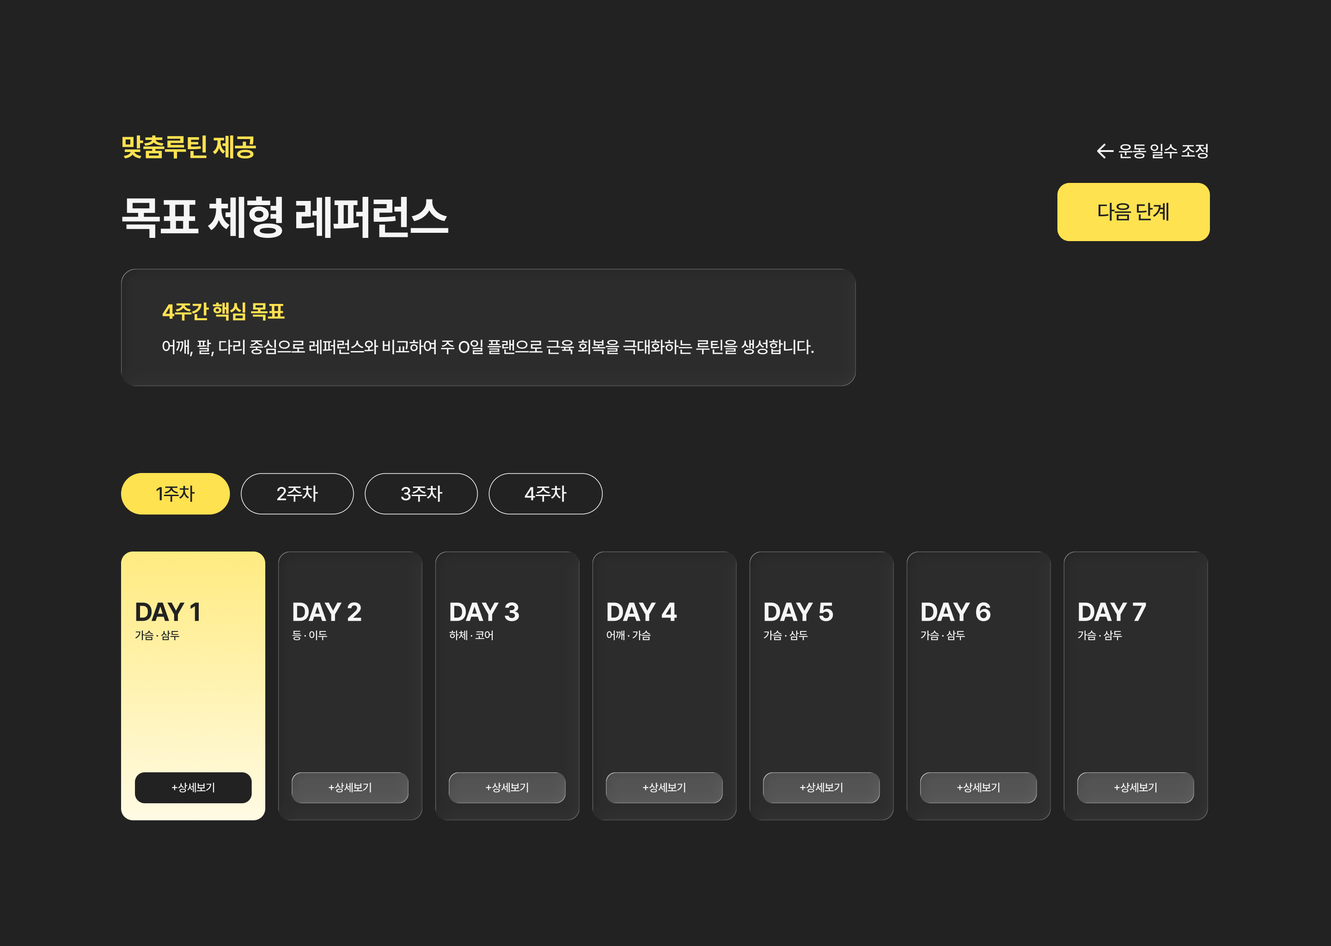
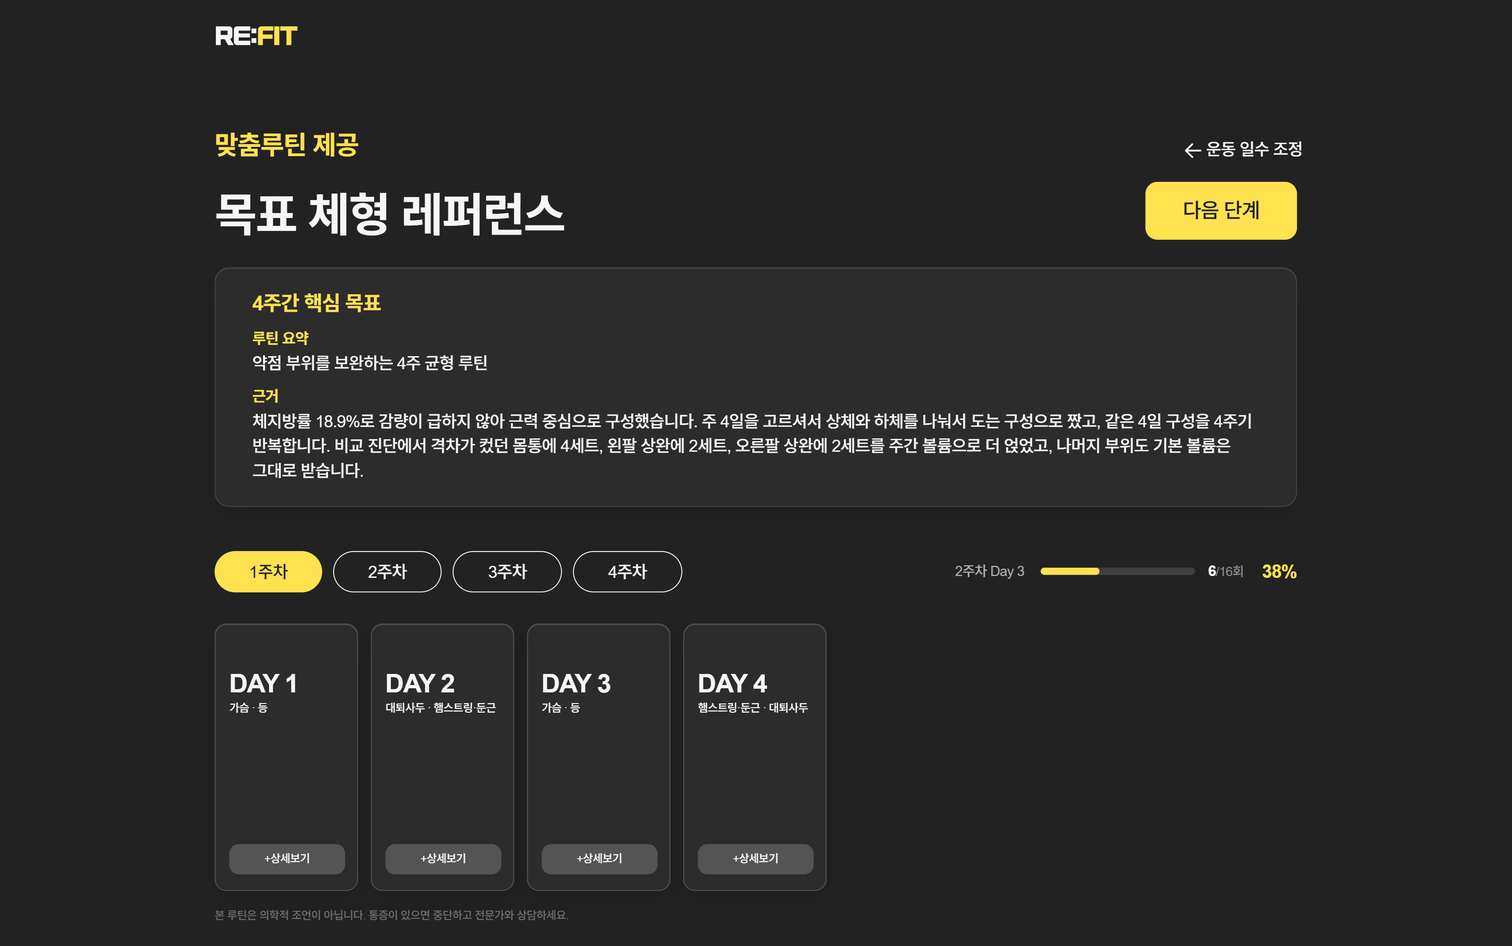
fix: 온보딩 확대 반응 · 흰 점 제거 · 부위 아이콘 · 촬영 가이드
온보딩에서 확대/축소가 먹지 않던 문제
  ⚠ 배율이 확대를 **정확히 상쇄**하고 있었다. clientWidth 는 CSS 픽셀이라 150% 로
     확대하면 값이 2/3 로 줄고, clientWidth/1440 로 배율을 잡으면 배율도 2/3 이 되어
     실제 크기가 그대로다. 그래서 아무리 확대해도 화면이 안 커졌다.
  viewport-scale.ts 가 확대 배수(devicePixelRatio 변화)를 다시 곱해 되돌린다.
  무대 폭도 1440×배율로 줘야 늘어난 폭이 잘리지 않고 가로 스크롤이 생긴다.
  검증: 섹션 폭 1280 → 1920 (×1.5).

  ⚠ 함정 — .onboarding 의 overflow:hidden 을 풀었더니 100% 에서도 가로 스크롤이
     생겼다. 히어로 캐릭터가 설계 폭(1440)보다 72px 크게 그려져 있는데
     .hero-section-stage 가 overflow:visible 이라 새어 나가고 있었고, 그동안
     .onboarding 이 그걸 막고 있었다. 무대에서 자르도록 바꿨다 — 무대 폭이
     1440×배율이라 100% 에서는 종전과 같은 모습이고, 확대할 때만 넓어진다.

러너 그림자 옆 흰 점
  routine-marker.svg — 8×1px 짜리 #D9D9D9 타원. Figma 내보내기 잔재로 보인다.
  요소·CSS·에셋 모두 제거.

노트북 화면 이미지
  옛 Figma 목업(DAY 7개, 게이지 없음)이라 지금 화면과 달랐다. 실제 맞춤 루틴
  화면을 2배로 캡처해 교체. 슬롯 비율(1.598)에 맞춰 좌우에 배경을 덧대 화면이
  잘리지 않게 했다. 237KB → 202KB.

진단 카드 부위 아이콘
  ⚠ 팔 아이콘 하나를 돌려 전 부위에 쓰고 있었다 (--leg 는 rotate(180deg)).
     그래서 «왼쪽 종아리»에 손가락이 달렸고 상완과 전완이 똑같아 보였다.
  BodyPartIcon 이 부위마다 그린다. 상완/전완·허벅지/종아리는 같은 팔다리의 다른
  마디라 모양으로는 못 가르므로, 팔(다리) 전체를 흐리게 깔고 해당 마디만 밝게
  칠해 **위치**로 구분한다. 좌우는 가로 뒤집기 — 두 벌로 관리하면 한쪽만 고치는
  실수가 난다.

촬영 가이드 문구
  «카메라와 적당한 거리를 두세요 — 너무 멀면 인식이 어려워요» 추가,
  «배경이 단순한 곳에서» → «…촬영해주세요» 로 문장 마무리.
  다섯 줄로 늘어도 카드는 843~974px 로 화면(1024px) 안에 들어간다.

diff --git a/src/App.css b/src/App.css
@@ -2,14 +2,22 @@
 
 /* 온보딩은 1440px 고정 캔버스를 화면 폭에 맞춰 축소·확대한다 (RevealSection scaleToViewport).
    min-width 를 두면 좁은 화면에서 가로 스크롤이 생기고 오른쪽이 잘린다. */
-.onboarding { overflow: hidden; }
+/* ⚠ overflow:hidden 을 두면 확대했을 때 늘어난 폭이 잘리고 가로 스크롤도 안 생긴다.
+   세로 방향은 원래 스크롤되는 페이지이므로 그대로 둔다. */
+.onboarding { overflow: visible; }
 .page-stage { position: relative; width: 100%; min-width: 1440px; overflow: hidden; background: #fff; }
 .page-stage--scaled { min-width: 0; }
 .hero-section-stage, .onboarding-function-stage, .closing-section-stage { background: #222; }
 .onboarding-wellness-stage { background: #e2e2e2; }
 .page-section { position: relative; width: 1440px; margin: 0 auto; overflow: hidden; }
 .page-stage--scaled .page-section { margin: 0; transform-origin: top left; }
-.hero-section-stage, .hero-section { overflow: visible; }
+/* ⚠ 무대(page-stage)는 잘라야 한다. 히어로 캐릭터가 설계 폭(1440)보다 72px 크게
+   그려져 있어서, 무대까지 visible 로 두면 그 72px 이 페이지 밖으로 새어 나가
+   **100% 배율에서도 가로 스크롤**이 생긴다. 종전에는 .onboarding 의 overflow:hidden
+   이 그걸 막았는데, 그 방식은 확대했을 때 늘어난 폭까지 잘라버려 오른쪽을 못 본다.
+   무대 폭 = 1440×배율 이므로 여기서 자르면 100% 에서는 종전과 완전히 같은 모습이고,
+   확대했을 때만 페이지가 넓어져 스크롤로 볼 수 있다. */
+.hero-section { overflow: visible; }
 .hero-section-stage { z-index: 1; }
 .hero-section { height: 1024px; }
 .motion { opacity: 0; transform: translateY(42px); transition: opacity 750ms cubic-bezier(.2, .8, .2, 1), transform 750ms cubic-bezier(.2, .8, .2, 1); }
@@ -26,7 +34,7 @@
 .onboarding-wellness { height: 1417px; background: #e2e2e2; color: #3b3b3b; }.onboarding-wellness__subtitle { position: absolute; top: 359px; left: 0; width: 100%; margin: 0; text-align: center; font: 500 28px/1.5 Pretendard, sans-serif; letter-spacing: -.84px; }.onboarding-wellness__title { position: absolute; top: 401px; left: 421px; width: 598px; margin: 0; text-align: center; font: 700 90px/1.5 esamanru, Pretendard, sans-serif; letter-spacing: -2.7px; }.onboarding-wellness__orbit { position: absolute; top: 141.5px; left: 564.5px; width: 390px; height: 179px; }.onboarding-wellness__computer { position: absolute; z-index: 2; top: 628px; left: 380px; width: 752px; height: 550px; }.onboarding-wellness__laptop { position: absolute; top: 81px; left: 39px; width: 674.36px; height: 388.887px; transform: rotate(-15deg); transform-origin: center; }.onboarding-wellness__screen { position: absolute; top: 107px; left: 116px; width: 516px; height: 323px; object-fit: cover; transform: rotate(-15deg); transform-origin: center; }.onboarding-wellness__platform, .onboarding-wellness__shadow { position: absolute; top: 1060px; left: 308px; width: 804.471px; height: 356.145px; }.onboarding-wellness__shadow { z-index: 1; }
 .onboarding-function { height: 1130px; background: #222; color: #f6f6f6; }.onboarding-function__subtitle { position: absolute; top: 323px; left: 0; width: 100%; margin: 0; text-align: center; font: 500 28px/1.5 Pretendard, sans-serif; letter-spacing: -.84px; }.onboarding-function__title { position: absolute; top: 365px; left: 0; width: 100%; margin: 0; text-align: center; font: 700 90px/1.5 esamanru, Pretendard, sans-serif; letter-spacing: -2.7px; }.onboarding-function__cards { position: absolute; top: 644px; left: 141px; display: flex; gap: 24px; }.onboarding-function__card { position: relative; box-sizing: border-box; width: 370px; height: 284px; overflow: hidden; border-radius: 30px; background: #3b3b3b; text-align: center; }.onboarding-function__number { position: absolute; top: 64px; left: 165px; width: 40px; height: 40px; }.onboarding-function__number img { position: absolute; inset: 0; width: 40px; height: 40px; }.onboarding-function__number b { position: relative; display: block; color: #f6f6f6; font: 500 17.966px/40px Pretendard, sans-serif; letter-spacing: -.539px; }.onboarding-function__card h2 { position: absolute; top: 130px; left: 0; width: 100%; margin: 0; font: 600 38px/1.5 Pretendard, sans-serif; letter-spacing: -1.14px; }.onboarding-function__card p { position: absolute; top: 193px; left: 12px; width: 346px; margin: 0; font: 500 18px/1.5 Pretendard, sans-serif; letter-spacing: -.54px; }
 .closing-section { height: 1058px; text-align: center; }.logo--small { position: absolute; top: 157px; left: 612px; font-size: 58.487px; letter-spacing: -1.755px; }.closing-section__copy { position: absolute; top: 248px; width: 100%; }.closing-section h1 { margin: 0; font: 700 50px/1.5 Pretendard, sans-serif; letter-spacing: -1.5px; }.closing-section h1 em { color: #ffe250; font-style: normal; }.closing-section__copy p { margin: 5px 0 0; font: 500 28px/1.5 Pretendard, sans-serif; letter-spacing: -0.84px; }
-.closing-section__illustration { position: absolute; top: 438px; left: 493px; width: 454px; height: 373px; }.closing-section__platform { position: absolute; top: 239px; left: 0; width: 454px; height: 133px; }.closing-section__figure { position: absolute; top: 0; left: 116px; width: 222px; height: 324px; object-fit: contain; }.closing-section__marker { position: absolute; top: 263px; left: 95px; width: 8px; height: 1px; }.closing-section__button { position: absolute; top: 830px; left: 413px; }.ai-button--wide { width: 616px; margin: 0; }
+.closing-section__illustration { position: absolute; top: 438px; left: 493px; width: 454px; height: 373px; }.closing-section__platform { position: absolute; top: 239px; left: 0; width: 454px; height: 133px; }.closing-section__figure { position: absolute; top: 0; left: 116px; width: 222px; height: 324px; object-fit: contain; }.closing-section__button { position: absolute; top: 830px; left: 413px; }.ai-button--wide { width: 616px; margin: 0; }
 @media (prefers-reduced-motion: reduce) { .motion, .motion--soft, .motion--from-right { opacity: 1; transform: none; transition: none; } }
 
 /* Analysis flow — Figma desktop frames (1440 × 1024). */
@@ -188,9 +196,6 @@ body .inbody-range-field.is-invalid .inbody-range-error-glyph { top: 17px !impor
 .comparison-analysis-diagnosis > div > span { position: relative; display: block; width: 127px; height: 127px; flex: none; }
 .comparison-analysis-diagnosis > div > span img:first-child { position: absolute; inset: 0; width: 127px; height: 127px; }
 .comparison-analysis-diagnosis > div > span img:last-child { position: absolute; top: 34px; left: 32px; width: 70px; height: 70px; }
-.comparison-analysis-diagnosis > div > span img.comparison-analysis-comment-icon--body { top: 35px; left: 28px; width: 72px; height: 58px; }
-.comparison-analysis-diagnosis > div > span img.comparison-analysis-comment-icon--leg { transform: rotate(180deg); }
-.comparison-analysis-diagnosis > div > span img.comparison-analysis-comment-icon--shoulder { transform: rotate(-18deg); }
 .comparison-analysis-diagnosis section { margin-left: 43px; }
 .comparison-analysis-diagnosis h3 { margin: 2px 0 10px; color: #ffe250; font: 700 28px/1.5 Pretendard, sans-serif; letter-spacing: -.84px; }
 .comparison-analysis-diagnosis section p { margin: 0; color: #f6f6f6; font: 500 22px/1.5 Pretendard, sans-serif; letter-spacing: -.66px; }
@@ -714,4 +719,12 @@ body .inbody-range-field.is-invalid .inbody-range-error-glyph { top: 17px !impor
 .custom-routine-page__progress strong { min-width: 44px; color: #ffe250; font: 700 20px/1.5 Pretendard, sans-serif; letter-spacing: -.6px; text-align: right; }
 @media (prefers-reduced-motion: no-preference) {
   .custom-routine-page__progress-gauge > span { transition: width 520ms cubic-bezier(.4, 0, .2, 1); }
+}
+
+/* ── 진단 카드 부위 아이콘 ──────────────────────────────────────────────────
+   종전에는 팔 그림 하나를 돌려 전 부위에 썼다 (--leg 는 rotate(180deg)) — 그래서
+   "왼쪽 종아리"에 손가락이 달렸고 상완과 전완이 똑같아 보였다.
+   이제 BodyPartIcon 이 부위마다 다르게 그린다. 원 안 같은 자리에 얹기만 하면 된다. */
+.comparison-analysis-diagnosis > div > span .comparison-analysis-comment-icon {
+  position: absolute; top: 30px; left: 30px; width: 72px; height: 72px; color: #f6f6f6;
 }

diff --git a/src/components/BodyPartIcon.tsx b/src/components/BodyPartIcon.tsx
@@ -1,0 +1,79 @@
+/**
+ * 진단 결과 카드의 부위 아이콘.
+ *
+ * ⚠ 종전에는 **팔 아이콘 하나를 돌려서** 전 부위에 썼다 (App.css 의
+ *    `--leg { transform: rotate(180deg) }`). 그래서 "왼쪽 종아리"에 손가락이
+ *    달려 있었고, 상완과 전완이 똑같이 보였다.
+ *
+ * 상완/전완, 허벅지/종아리는 **같은 팔다리의 다른 마디**다. 그래서 팔(다리)
+ * 전체를 흐리게 깔고 해당 마디만 밝게 칠한다 — 모양이 아니라 **위치**로
+ * 구분되므로 두 마디를 헷갈릴 수가 없다.
+ *
+ * ⚠ 좌우는 그림을 따로 그리지 않고 가로로 뒤집는다. 사람 몸은 좌우 대칭이라
+ *    두 벌로 관리하면 한쪽만 고치는 실수가 난다.
+ */
+
+type BodyPartIconVariant = 'torso' | 'upper-arm' | 'lower-arm' | 'upper-leg' | 'lower-leg'
+
+/** class_name → 아이콘 종류. 모르는 이름은 몸통으로 둔다(빈 자리보다 낫다). */
+function iconVariant(className: string | undefined): BodyPartIconVariant {
+  const value = (className ?? '').toLowerCase()
+  if (value.includes('upper_arm') || value.includes('shoulder')) return 'upper-arm'
+  if (value.includes('lower_arm') || value.includes('forearm') || value.includes('wrist')) return 'lower-arm'
+  if (value.includes('upper_leg') || value.includes('thigh')) return 'upper-leg'
+  if (value.includes('lower_leg') || value.includes('calf') || value.includes('shin')) return 'lower-leg'
+  return 'torso'
+}
+
+/** 화면에 보이는 방향 기준 오른쪽 부위인가 — 아이콘을 가로로 뒤집는다. */
+function isRightSide(className: string | undefined): boolean {
+  return (className ?? '').toLowerCase().startsWith('right_')
+}
+
+/** 강조하지 않는 마디의 진하기. 형태는 보이되 초점은 뺏지 않는 값.
+ *  ⚠ 너무 낮추면 팔다리 전체 실루엣이 사라져서 밝은 마디가 그냥 알약처럼 보인다. */
+const MUTED = 0.34
+
+/**
+ * 팔·다리는 **끊기지 않는 한 덩어리**로 그린다. 마디를 따로 떼어 그리면
+ * 사람 팔다리가 아니라 알약 두 개로 읽힌다. 손·발까지 이어 붙여야 어느 쪽이
+ * 팔이고 어느 쪽이 다리인지 한눈에 갈린다.
+ */
+function Limb({ variant }: { variant: Exclude<BodyPartIconVariant, 'torso'> }) {
+  const isArm = variant === 'upper-arm' || variant === 'lower-arm'
+  const upper = variant === 'upper-arm' || variant === 'upper-leg'
+  const hi = { opacity: 1 }
+  const lo = { opacity: MUTED }
+  return isArm
+    ? <g fill="none" stroke="currentColor" strokeLinecap="round" strokeLinejoin="round">
+        {/* 위팔 — 어깨에서 팔꿈치 */}
+        <path d="M25 14 L31 33" strokeWidth="14" {...(upper ? hi : lo)} />
+        {/* 아래팔 + 손 — 팔꿈치에서 손끝까지 이어 그린다 */}
+        <path d="M31 33 L36 49" strokeWidth="11" {...(upper ? lo : hi)} />
+        <path d="M36 50 L38 56" strokeWidth="12" {...(upper ? lo : hi)} />
+      </g>
+    : <g fill="none" stroke="currentColor" strokeLinecap="round" strokeLinejoin="round">
+        {/* 허벅지 — 골반에서 무릎. 팔보다 굵어야 다리로 읽힌다 */}
+        <path d="M26 13 L31 33" strokeWidth="18" {...(upper ? hi : lo)} />
+        {/* 종아리 → 발목 → 발등. ㄴ 자로 꺾어야 발로 보인다 */}
+        <path d="M31 33 L34 50 L34 55 L45 55" strokeWidth="12" {...(upper ? lo : hi)} />
+      </g>
+}
+
+/** partClassName: 백엔드 부위 코드(Left_Upper_Arm 등). 종류·좌우를 여기서 판단한다 —
+ *  호출부가 매번 두 값을 계산해 넘기면 한 곳만 빠뜨렸을 때 아이콘이 조용히 어긋난다. */
+type BodyPartIconProps = { partClassName: string | undefined; className?: string; label: string }
+
+export function BodyPartIcon({ partClassName, className = '', label }: BodyPartIconProps) {
+  const variant = iconVariant(partClassName)
+  return <svg className={className} viewBox="0 0 64 64" role="img" aria-label={label}
+    style={isRightSide(partClassName) ? { transform: 'scaleX(-1)' } : undefined}>
+    {variant === 'torso'
+      ? <g fill="currentColor">
+          {/* 어깨 → 허리 → 골반. ⚠ 목을 붙이면 보온병처럼 보인다 — 몸통만 그린다.
+              넓은 어깨와 잘록한 허리가 있어야 «몸통»으로 읽힌다. */}
+          <path d="M17 22c0-5 6-8 15-8s15 3 15 8l-4 13c-1 4-1 8 0 12l1 8c0 2-2 3-4 3H24c-2 0-4-1-4-3l1-8c1-4 1-8 0-12Z" />
+        </g>
+      : <Limb variant={variant} />}
+  </svg>
+}

diff --git a/src/App.tsx b/src/App.tsx
@@ -3,7 +3,6 @@ import heroBackground from './assets/onboarding-hero-background-figma.png'
 import heroPhone from './assets/onboarding-hero-phone.png'
 import onboardingScrollCue from './assets/onboarding-scroll-cue.svg'
 import routineFigure from './assets/routine-figure.png'
-import routineMarker from './assets/routine-marker.svg'
 import routinePlatform from './assets/routine-platform.svg'
 import wellnessScreen from './assets/onboarding-wellness-screen.png'
 import wellnessPlatform from './assets/onboarding-wellness-platform.svg'
@@ -34,6 +33,7 @@ import { applyCoachChanges, createRoutine, createWorkoutLog, getActiveRoutine, g
 import { detectPoseFromImage, type DetectedPose } from './lib/pose-detector'
 import { loadVideoLandmarker } from './lib/landmarkers'
 import { evaluate, MESSAGES, type PoseCriteria, type PoseEvaluation, type PoseLandmarks } from './lib/pose-score.js'
+import { viewportScale } from './lib/viewport-scale'
 
 // 부분 신체(상체/하체만) 레퍼런스를 허용하므로 "전신이 보이도록"은 부정확하다.
 // MESSAGES는 교체 가능하게 export되어 있고 evaluate()가 이 표를 그대로 읽는다.
@@ -139,7 +139,7 @@ function restoreView(): AppView {
 function RevealSection({ children, className, label, scaleToViewport = false, designHeight = 1024 }: SectionProps) {
   const sectionRef = useRef<HTMLElement>(null)
   const [isVisible, setIsVisible] = useState(false)
-  const [scale, setScale] = useState(() => document.documentElement.clientWidth / 1440)
+  const [scale, setScale] = useState(() => viewportScale(1440))
 
   useEffect(() => {
     const section = sectionRef.current
@@ -156,12 +156,16 @@ function RevealSection({ children, className, label, scaleToViewport = false, de
 
   useEffect(() => {
     if (!scaleToViewport) return
-    const updateScale = () => setScale(document.documentElement.clientWidth / 1440)
+    // ⚠ resize 는 창 크기뿐 아니라 **확대/축소에도 발생한다** — 둘 다 여기서 처리된다.
+    const updateScale = () => setScale(viewportScale(1440))
+    updateScale()
     window.addEventListener('resize', updateScale)
     return () => window.removeEventListener('resize', updateScale)
   }, [scaleToViewport])
 
-  const stageStyle = scaleToViewport ? { height: `${designHeight * scale}px` } : undefined
+  // ⚠ 폭도 배율만큼 준다. transform 은 자리 차지를 바꾸지 않아서, 폭을 안 주면
+  //    확대했을 때 늘어난 부분이 잘려나가고 가로 스크롤도 안 생긴다.
+  const stageStyle = scaleToViewport ? { width: `${1440 * scale}px`, height: `${designHeight * scale}px` } : undefined
   const canvasStyle = scaleToViewport ? { transform: `scale(${scale})` } : undefined
 
   return <section ref={sectionRef} aria-label={label} className={`page-stage ${className}-stage ${scaleToViewport ? 'page-stage--scaled' : ''}`} style={stageStyle}>
@@ -223,7 +227,7 @@ function OnboardingThree() {
 function OnboardingFour({ onStart }: { onStart: () => void }) {
   return <RevealSection className="closing-section" label="온보딩 4: REFIT 시작하기" scaleToViewport designHeight={1058}>
     <RefitLogo small /><div className="closing-section__copy motion"><h1>AI가 만드는 <em>맞춤 루틴</em></h1><p>오늘부터 REFIT과 함께, 내가 바라는 건강함을 차곡차곡</p></div>
-    <div className="closing-section__illustration motion motion--delay-1" aria-hidden="true"><img className="closing-section__platform" src={routinePlatform} alt="" /><img className="closing-section__figure" src={routineFigure} alt="" /><img className="closing-section__marker" src={routineMarker} alt="" /></div>
+    <div className="closing-section__illustration motion motion--delay-1" aria-hidden="true"><img className="closing-section__platform" src={routinePlatform} alt="" /><img className="closing-section__figure" src={routineFigure} alt="" /></div>
     <div className="closing-section__button motion motion--delay-2"><StartButton wide onStart={onStart} /></div>
   </RevealSection>
 }

diff --git a/src/screens/ComparisonAnalysisScreen.tsx b/src/screens/ComparisonAnalysisScreen.tsx
@@ -1,11 +1,10 @@
 import { useEffect, useRef, useState } from 'react'
 import comparisonCommentCircle from '../assets/comparison-analysis-comment-circle.svg'
-import comparisonCommentIcon from '../assets/comparison-analysis-comment-icon.svg'
-import comparisonCommentBodyIcon from '../assets/reference-person.svg'
 import comparisonScoreTrack from '../assets/comparison-analysis-score-track.svg'
 import type { AnalysisPart, AnalysisResult, SegmentationInfo, SessionSegmentation } from '../lib/api'
 import { PreviousButton } from '../components/PreviousButton'
 import { RefitHomeLogo } from '../components/RefitHomeLogo'
+import { BodyPartIcon } from '../components/BodyPartIcon'
 
 const GAP_LABELS: Record<string, string> = {
   NONE: '차이 거의 없음',
@@ -16,14 +15,6 @@ const GAP_LABELS: Record<string, string> = {
 
 const SCORE_RING_RADIUS = (300 - 24.83) / 2
 const SCORE_RING_CIRCUMFERENCE = 2 * Math.PI * SCORE_RING_RADIUS
-
-function commentIconVariant(className: string | undefined): 'body' | 'arm' | 'leg' | 'shoulder' {
-  const value = (className ?? '').toLowerCase()
-  if (value.includes('leg') || value.includes('knee') || value.includes('calf') || value.includes('thigh')) return 'leg'
-  if (value.includes('shoulder')) return 'shoulder'
-  if (value.includes('arm') || value.includes('elbow') || value.includes('wrist')) return 'arm'
-  return 'body'
-}
 
 /**
  * 사진 + 선택 부위 세그멘테이션 색칠을 **캔버스 한 장에 원본 해상도로 합성**한다.
@@ -117,8 +108,6 @@ export function ComparisonAnalysisScreen({ analysis, segmentation, onCreateRouti
   const parts = analysis?.parts ?? []
   const [selectedClass, setSelectedClass] = useState<string | null>(null)
   const selected = parts.find(part => part.class_name === selectedClass) ?? parts[0] ?? null
-  const commentVariant = commentIconVariant(selected?.class_name)
-  const commentIcon = commentVariant === 'body' ? comparisonCommentBodyIcon : comparisonCommentIcon
 
   const overall = analysis?.overall ?? null
   const score = overall?.similarity_score ?? null
@@ -208,7 +197,7 @@ export function ComparisonAnalysisScreen({ analysis, segmentation, onCreateRouti
           {selected?.confidence === 'LOW' && <span className="comparison-analysis-badge comparison-analysis-badge--dim">신뢰도 낮음</span>}
         </h2>
         <div className={selected?.confidence === 'LOW' ? 'is-low-confidence' : ''}>
-          <span><img src={comparisonCommentCircle} alt="" /><img className={`comparison-analysis-comment-icon--${commentVariant}`} src={commentIcon} alt={`${selected?.name_ko ?? '선택 부위'} 아이콘`} /></span>
+          <span><img src={comparisonCommentCircle} alt="" /><BodyPartIcon className="comparison-analysis-comment-icon" partClassName={selected?.class_name} label={`${selected?.name_ko ?? '선택 부위'} 아이콘`} /></span>
           <section>
             <h3>AI 코멘트</h3>
             {selected?.gap_level === null && selected?.blocked_reason

diff --git a/src/lib/viewport-scale.ts b/src/lib/viewport-scale.ts
@@ -1,0 +1,24 @@
+/**
+ * 1440px 설계 화면을 지금 창 너비에 맞추는 배율.
+ *
+ * ⚠ **브라우저 확대/축소를 상쇄하면 안 된다.** clientWidth 는 CSS 픽셀이라 150% 로
+ *    확대하면 값이 2/3 로 줄어든다. 그 값만으로 배율을 잡으면 배율도 같이 2/3 이 되어
+ *    실제 크기가 정확히 상쇄되고, 확대해도 화면이 **그대로**다. 종전 동작이 그랬다.
+ *
+ *    그래서 확대 배수를 다시 곱해 되돌린다. 확대하면 설계 크기가 CSS 픽셀로는 그대로,
+ *    화면에서는 그만큼 커진다 — 브라우저 확대의 원래 동작이다.
+ *
+ * ⚠ 기준 배율은 **첫 로드 시점**의 devicePixelRatio 다. 레티나(2배)처럼 화면 자체의
+ *    배율을 확대로 착각하지 않으려면 절대값이 아니라 변화량을 봐야 한다.
+ *    이미 확대한 채로 열면 그 상태가 기준이 된다 — 그 뒤의 확대·축소는 정상 동작한다.
+ */
+const BASE_PIXEL_RATIO = typeof window === 'undefined' ? 1 : window.devicePixelRatio || 1
+
+/** 첫 로드 대비 확대 배수. 100% 면 1, 150% 로 확대하면 1.5. */
+export function browserZoom(): number {
+  return (window.devicePixelRatio || 1) / BASE_PIXEL_RATIO
+}
+
+export function viewportScale(designWidth: number): number {
+  return (document.documentElement.clientWidth * browserZoom()) / designWidth
+}

diff --git a/src/screens/PoseCaptureScreen.tsx b/src/screens/PoseCaptureScreen.tsx
@@ -58,8 +58,9 @@ type Hud = { message: string; score: number | null; progress: number }
 const CAPTURE_GUIDES = [
   '레퍼런스를 화면에 보이는 대로 따라 하세요',
   '발끝까지 안 나와도 괜찮아요 — 몸통과 팔다리만 보이면 됩니다',
+  '카메라와 적당한 거리를 두세요 — 너무 멀면 인식이 어려워요',
   '맨살이나 몸에 붙는 옷으로 — 옷이 헐렁하면 팔다리 윤곽이 가려져요',
-  '배경이 단순한 곳에서',
+  '배경이 단순한 곳에서 촬영해주세요',
 ]
 
 const RETRY_MESSAGE = '일시적인 문제로 사진을 확인하지 못했어요. 잠시 후 다시 시도해주세요.'
